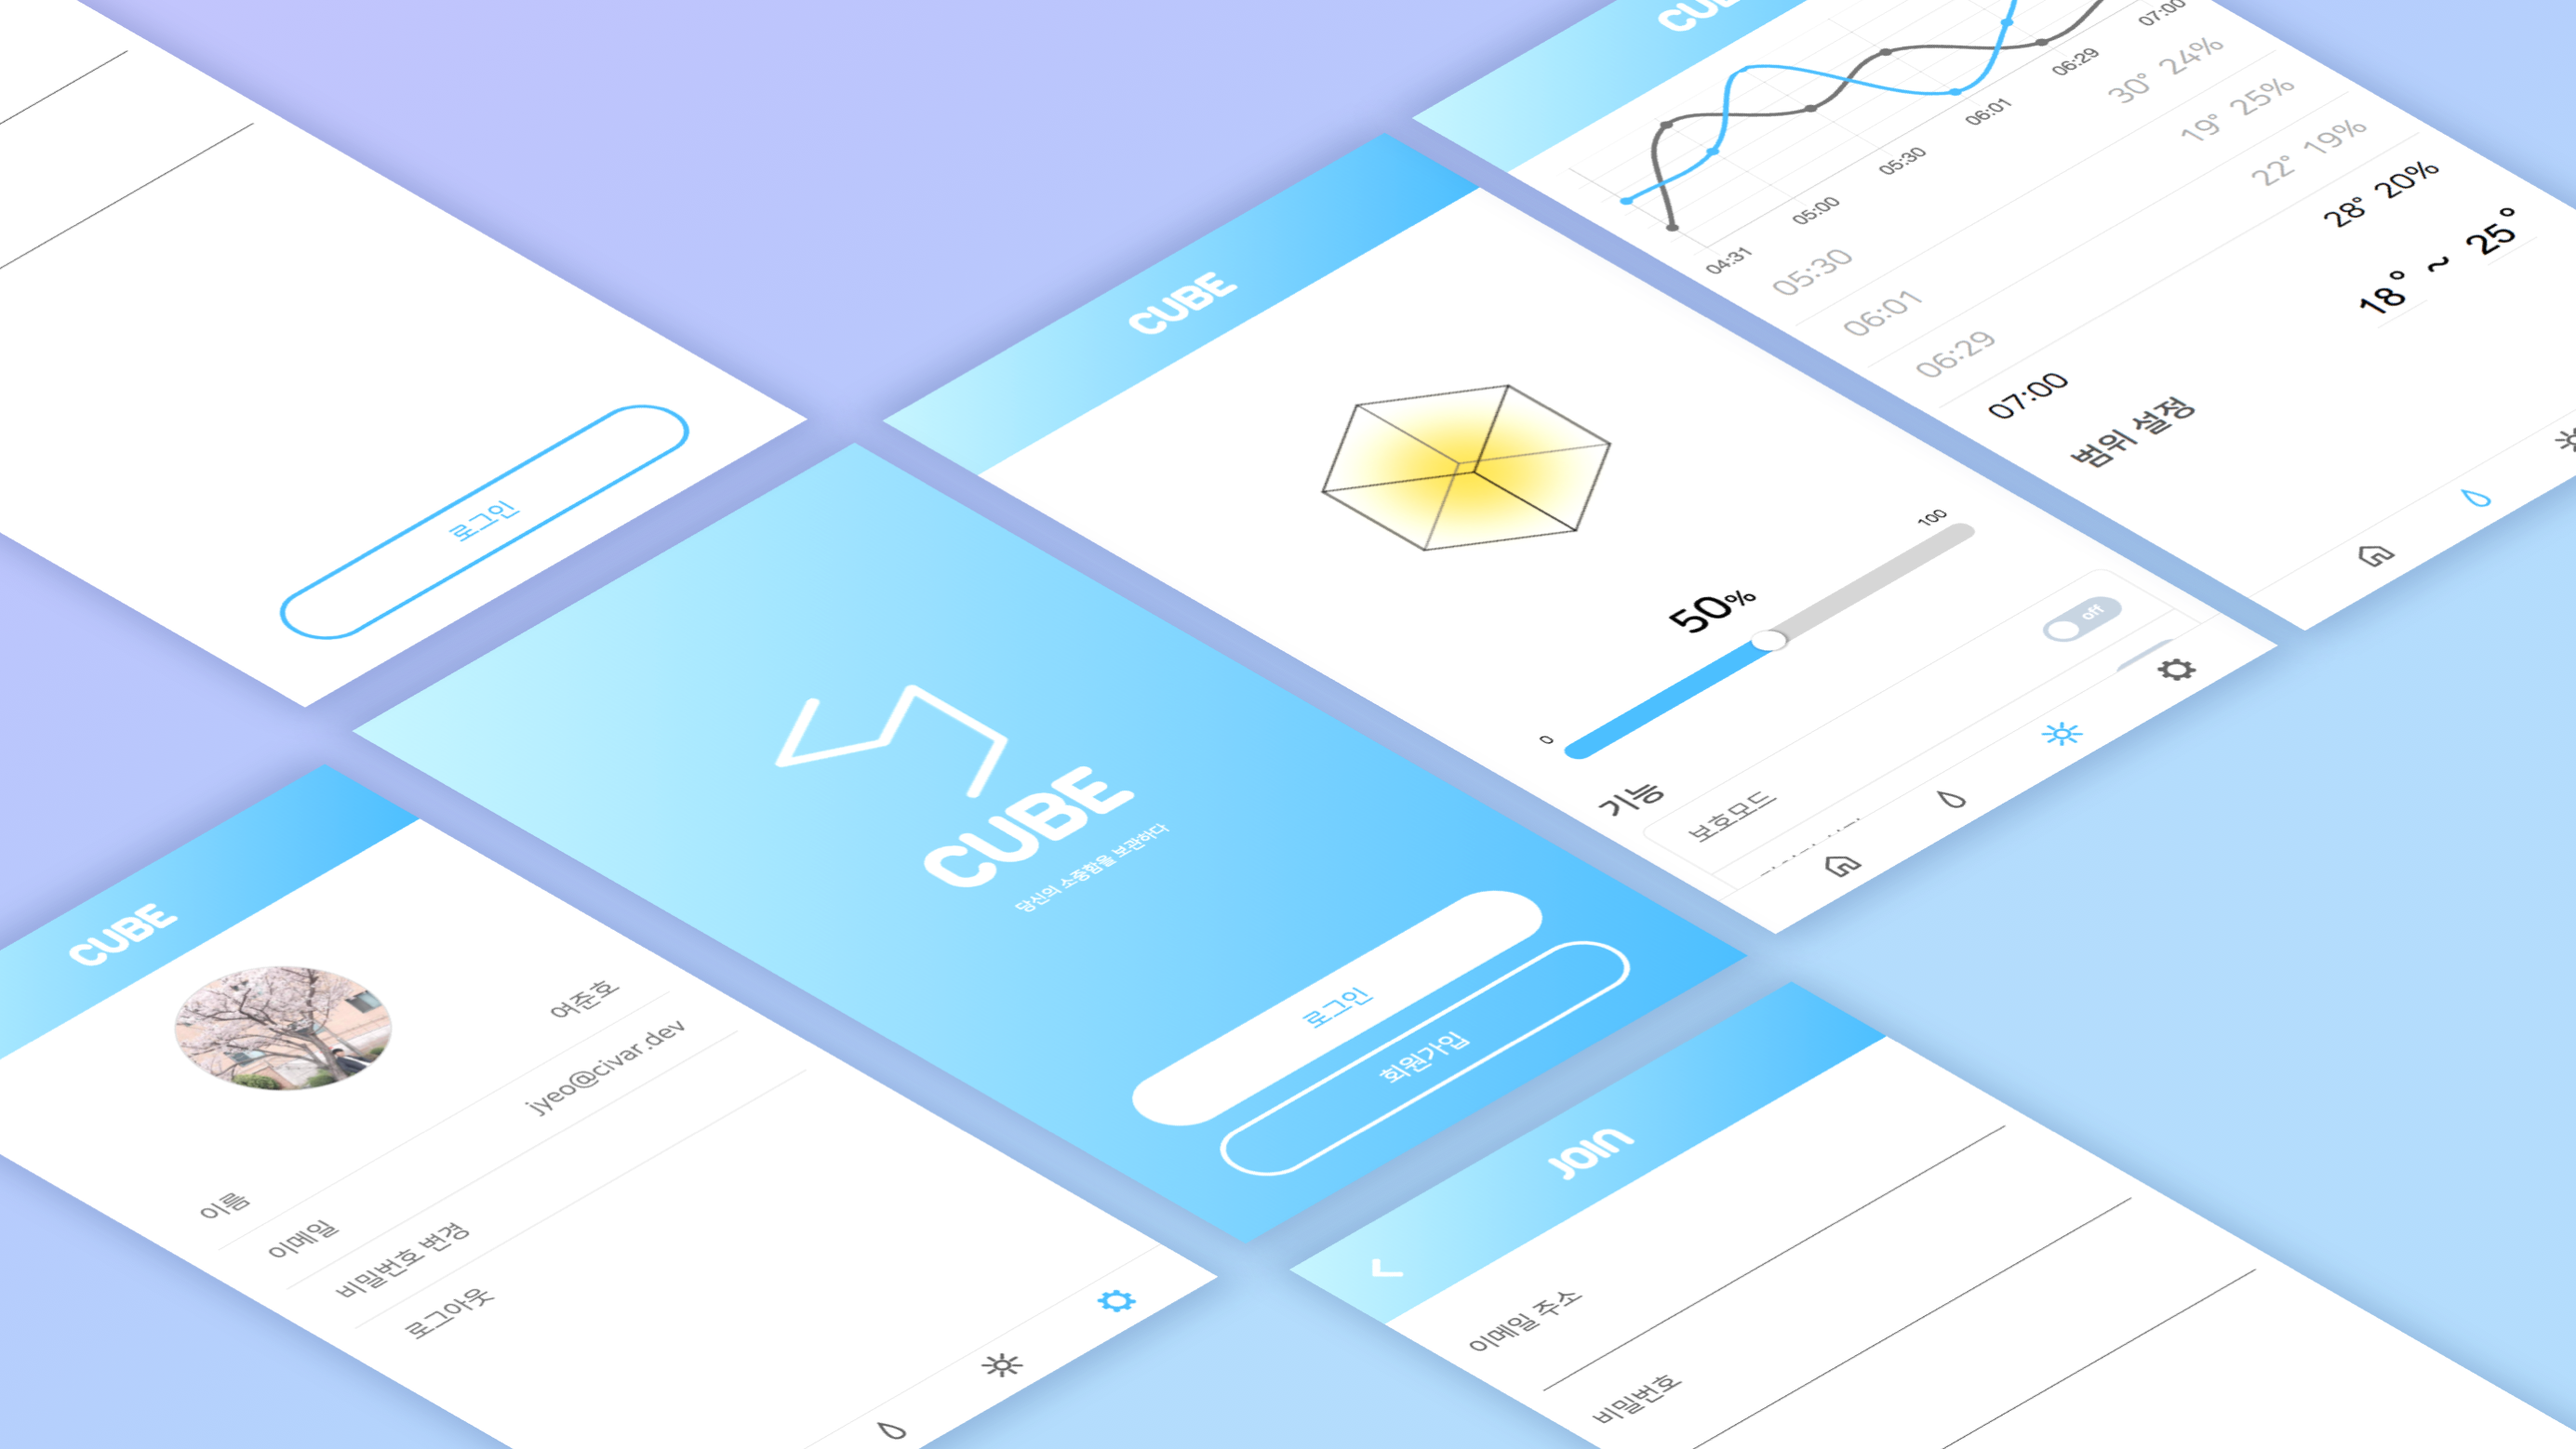
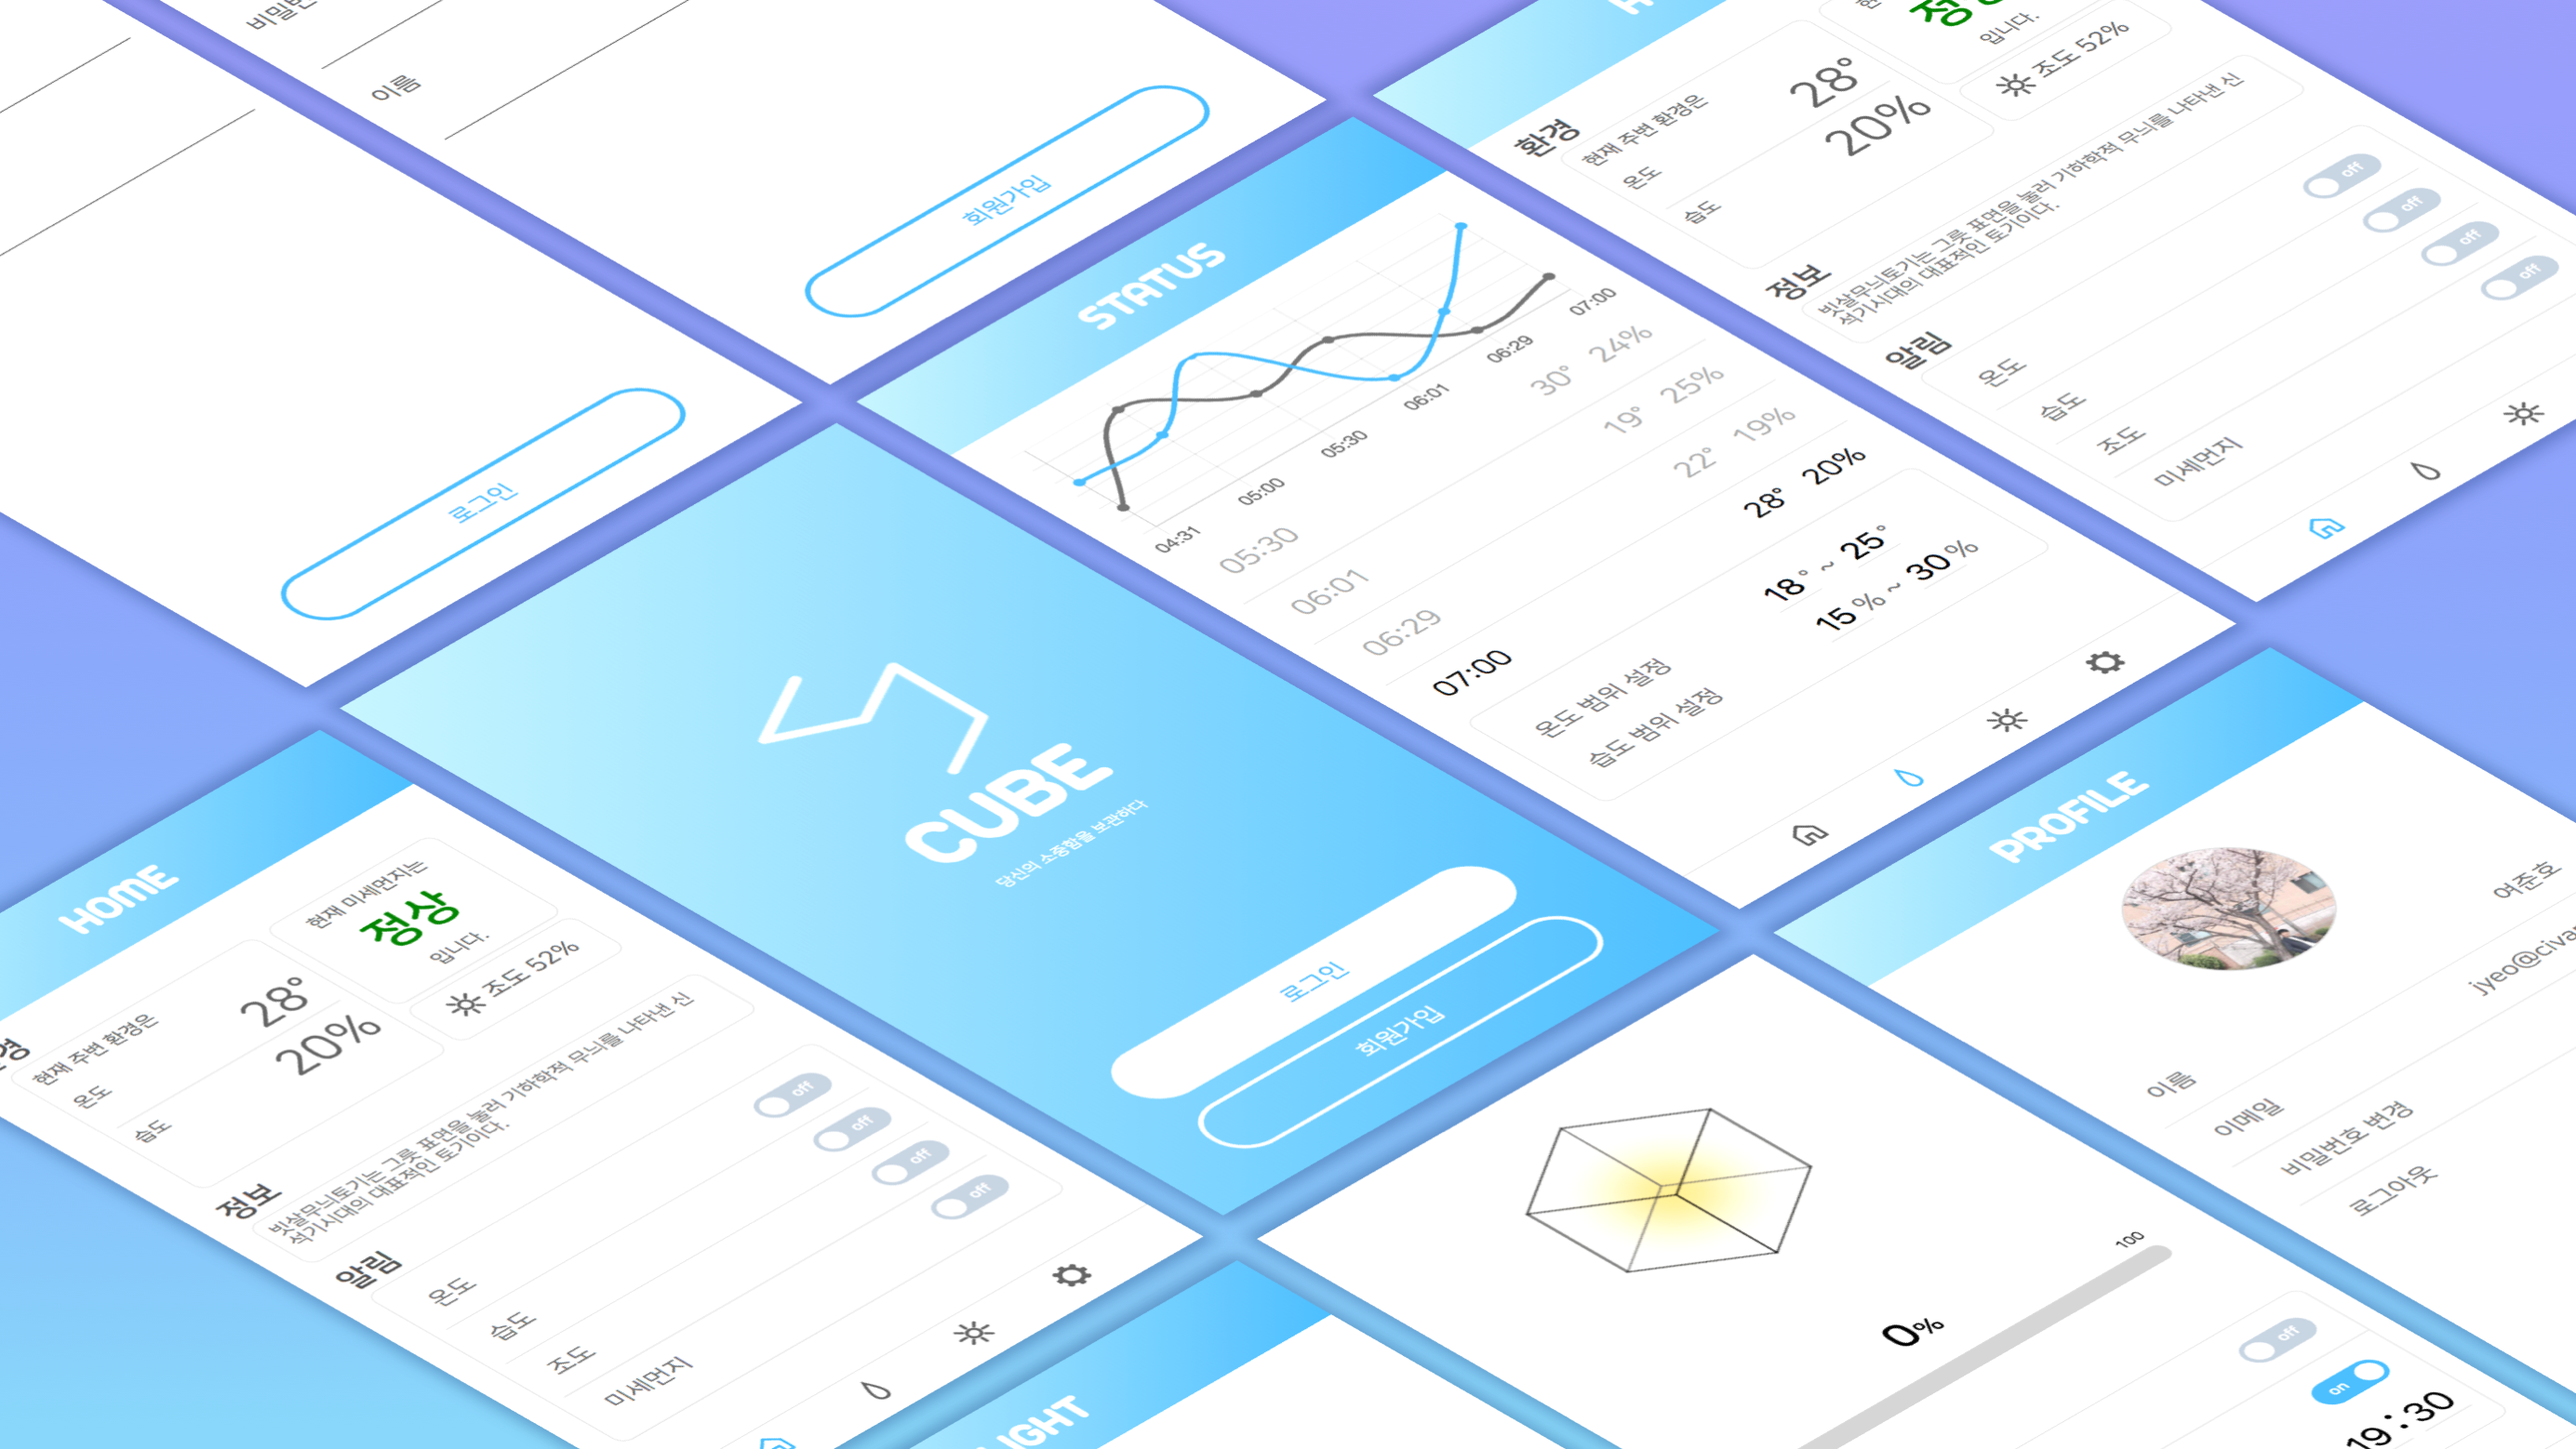
feat: update mockup and prototype data

diff --git a/src/pages/Temp.vue b/src/pages/Temp.vue
@@ -20,8 +20,14 @@ export default {
         { time: '06:29', temp: 22, humi: 19 },
         { time: '07:00', temp: 28, humi: 20 }
       ],
-      minRange: 18,
-      maxRange: 25
+      temp: {
+        minRange: 18,
+        maxRange: 25
+      },
+      humi: {
+        minRange: 15,
+        maxRange: 30
+      }
     }
   },
   methods: {
@@ -55,11 +61,19 @@ export default {
           </div>
         </div>
       </div>
-      <div class="setup">
-        <span class="setup__title">범위 설정</span>
-        <span class="setup__range">
-          <input v-model.number="minRange"/>° ~ <input v-model.number="maxRange"/>°
-        </span>
+      <div class="setups">
+        <div class="setup">
+          <span class="setup__title">온도 범위 설정</span>
+          <span class="setup__range">
+            <input v-model.number="temp.minRange"/>° ~ <input v-model.number="temp.maxRange"/>°
+          </span>
+        </div>
+        <div class="setup">
+          <span class="setup__title">습도 범위 설정</span>
+          <span class="setup__range">
+            <input v-model.number="humi.minRange"/>% ~ <input v-model.number="humi.maxRange"/>%
+          </span>
+        </div>
       </div>
     </div>
     <app-menu current="temp" />
@@ -68,7 +82,7 @@ export default {
 
 <style lang="scss" scoped>
 .temp {
-  padding: 0.5em;
+  padding: 0.8em;
 
   &__data-cell {
     display: flex;
@@ -103,31 +117,34 @@ export default {
   }
 }
 
-.setup {
-  margin-top: 1.5em;
-  padding-left: 1em;
+.setups {
+  color: #707070;
+  display: table;
+  margin-bottom: 5em;
+  width: 92%;
+  border: 1px solid rgba(112, 112, 112, 0.23);
+  border-radius: 8px;
+  margin: auto;
+  text-align: left;
+  padding: 0.5em;
+  font-size: 1em;
+  border-spacing: 0.8em;
+}
 
-  &__title {
-    font-size: 1.3rem;
-    // color: #606060;
-    color: #505050;
-    font-weight: bold;
-  }
+.setup {
+  display: table-row;
 
   &__range {
-    position: absolute;
-    right: 0.7em;
-    width: 99%;
-    text-align: right;
-    font-size: 2em;
+    padding-left: 4em;
+    font-size: 1.2em;
+  }
 
-    input {
-      text-align: center;
-      width: 10%;
-      font-size: 1.5rem;
-      border: none;
-      border-bottom: 1px solid rgba(112, 112, 112, 0.23);
-    }
+  input {
+    text-align: center;
+    width: 10%;
+    font-size: 1.3rem;
+    border: none;
+    border-bottom: 1px solid rgba(112, 112, 112, 0.23);
   }
 }
 </style>

diff --git a/src/pages/Home.vue b/src/pages/Home.vue
@@ -38,11 +38,11 @@ export default {
             <div class="env-left__data">
               <div class="env-left__data-cell">
                 <div class="env-left__field">온도</div>
-                <div class="env-left__value">25°</div>
+                <div class="env-left__value">28°</div>
               </div>
               <div class="env-left__data-cell">
                 <div class="env-left__field">습도</div>
-                <div class="env-left__value">36%</div>
+                <div class="env-left__value">20%</div>
               </div>
             </div>
           </div>

diff --git a/README.md b/README.md
@@ -1,4 +1,4 @@
 # CUBE (18th-Appjam-App)
 
-![mockup](./mockup.png)
+![mockup](./mockup.png?v=2)
 > 당신의 소중함을 보관하다, 큐브
